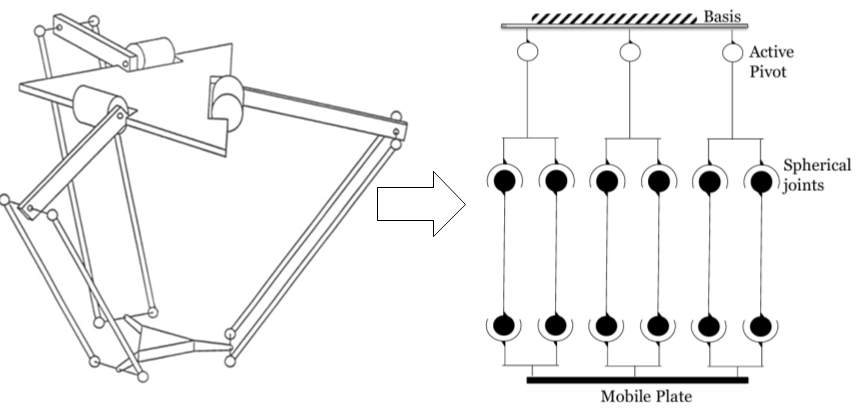
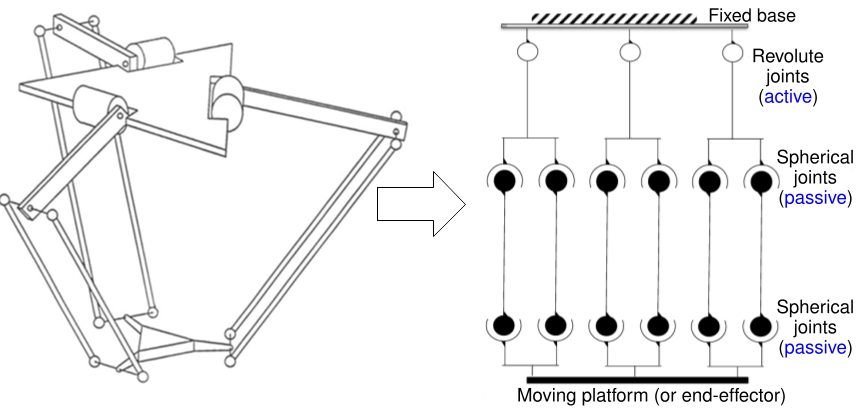
Revising kinematic course

diff --git a/docs/questions.js b/docs/questions.js
@@ -280,7 +280,7 @@ function checkDropdownAnswers(feedbackId) {
 function checkRobotStructure() {
   const correctMapping = {
     "serial-zone": ["open-chain", "serially-linked"],
-    "parallel-zone": ["closed-chain", "fixed-motors"]
+    "parallel-zone": ["closed-chain"]
   };
 
   let totalCorrect = 0;

diff --git a/docs/chap1_basic_motion_ctrl/kinematics.md b/docs/chap1_basic_motion_ctrl/kinematics.md
@@ -72,32 +72,35 @@ Have you ever watched a precision robot—like the <a href="https://en.wikipedia
 
 Kinematics, often referred to as the “**geometry of movement**,” is the study of *how bodies move in space without considering the forces or torques causing the motion*. By focusing on the geometry and arrangement of joints, links, and end-effectors, kinematics allows us to:
 
-- ***Predict and Control Robot Positions***: For instance, a robotic arm used in an assembly line must position its **end-effector** (tip of the arm) at **exact points in space**. Kinematics equations compute a correspondence between a **robot joint configuration** (particular choice of value for each joint angle) and a specific position and orientation of the end-effector. This is necessary to translate a desired carthesian location for the robot is tip into a set of robot is joint values.
+- ***Predict and Control Robot Positions***: For instance, a robotic arm used in an assembly line must position its **end-effector** (tip of the arm) at **exact points in space**. Kinematics provides the  correspondence between a **robot joint configuration** (particular choice of value for each joint angle) and a specific position and orientation of the end-effector. This is necessary to translate a desired position and orientation of the robot end-effector in Cartesian space (think of translation along and rotation about x, y, z axes) to a set of robot joint values (think of set of values in radians).
 
-- ***Backbone to Path Planning***: From pick-and-place tasks to drawing complex shapes, kinematics helps in **calculating paths**, ensuring the robot can move smoothly from one point to another without collisions or awkward joint motions. Kinematics is the back bone to all standard and advanced path planning techniques. Whether it’s a Delta robot on a factory floor or a humanoid robot in a research lab, it is necessary to design the robot is kinematic structure to ensure that the path will be **kinematically feasible**, namely that it will satisfy the robot is mechanical constraints.
+- ***Backbone to Path Planning***: From pick-and-place tasks to drawing complex shapes, kinematics helps in **calculating paths**, ensuring the robot can move smoothly from one point to another without collisions or awkward joint motions. Kinematics is the back bone to all standard and advanced path planning techniques. Whether it’s a Delta robot on a factory floor or a humanoid robot in a research lab, it is necessary to design the robot and its kinematic structure to ensure that the path will be **kinematically feasible**, namely that it will satisfy the robot's mechanical constraints.
 
 In this chapter, you will explore different ways of representing positions and orientations in 3D space, understand the kinematics behind common robotic arms, and learn a systematic way to map your robot’s geometry into kinematic equations to enable control. By mastering kinematics, you’ll have a strong foundation for starting your journey into controling robots. 
 
 ---
 
-## 1.1.3 Course Content
+## 1.1.3 General Concepts
 
 ⚠ **Note on Notation**: 
 >*Please be aware that notation, variable naming, and the style of writing equations may slightly differ between instructors. Always refer to the provided formulas and definitions in this course when working on assignments or exercises to avoid any confusion.*
 
-### 1.1.3.0 : General Concepts
 In this section we are first going to learn how to represent robots, what is a joint, degrees of freedom, etc. before diving into specific transformations (2D coordinate transformations, rotation matrices, homogeneous matrices) to link conceptual kinematic description of a robot to mathematical formalisms.
 
 ---
-#### *Robot Structure:*
+### *Robot Structure:*
 
-A traditional (rigid) robot is composed of a series of ***links***, attached to one another by ***joints***. The links move around the joints. 
+A rigid-body robot is composed of a series of ***rigid-links***, attached to one another by ***joints***. The joints allow a relative motion between links. 
 
-The simplest of these joint-based linkage consists of attaching in sequence two links. This is what we refer to as ***revolute*** joint, also called ***hinge*** joint. It is also referred to as the elbow joint as it bears some vague resemblance to the attachment of the upeer and lower human arms. 
+The simplest of these joint-based linkage is the ***revolute*** joint, also called ***hinge*** joint. This allows a link to rotate with respect to the previous link it is connected to.
 
 In place of enabling the links to rotate around the joint, the joint can also allow the links to slide along each other. One then refers to these links as ***prismatic*** joint, also called a sliding or linear joint. 
 
-More interesting are joints that enable either the links to do more than one motion type (combining translation and rotation) or enable to connect three or more links simultaneously. The ***helical*** or ***screw*** joint allows simultaneous rotation and translation about a screw axis. The ***spherical*** joint, also called a ball-and-socket joint, enables rotation along three axes. 
+Joints can also enable either links to do more than one motion type (combining translation and rotation) or enable to connect three or more links simultaneously. The ***helical*** or ***screw*** joint allows simultaneous rotation and translation about a screw axis. The ***spherical*** joint, also called a ball-and-socket joint, enables rotation along three axes. 
+
+<!-- The number of motions a body can perform independently is termed as its degrees of freedom (dof). In a 3-dimensional cartesian space, we have upto six degrees of freedom, three related to translations and three related to rotations. Every motion in the 3-dimensional Cartesian space can be written as a combination of these six motions. -->
+
+For our discussion in this chapter we will limit ourselves to simple joints with a single type of motion such as revolute joints or prismatic joints.
 
 <figure style="text-align: center;">
   <img src="{{ site.baseurl }}{{ '/assets/images/kinematics/joints.png' }}" width="500px" alt="Joints">
@@ -106,22 +109,22 @@ More interesting are joints that enable either the links to do more than one mot
   </figcaption>
 </figure>
 
-#### *Serial vs. Parallel robots*
+### *Serial vs. Parallel robots*
 
-Among the various configurations in which mechanical components can be arranged, two key topologies are particularly significant in robotics:
+Among the various configurations in which mechanical components can be arranged, two key architectures are particularly common in robotics:
 - ***Serial Chains***: These consist of a series of rigid links connected sequentially by joints. Each link (except the first and last) is connected to exactly two other links. Serial chains are commonly seen in robotic arms.
 - ***Fully Parallel Mechanisms***: These mechanisms have two primary components (often the base and the end-effector) connected by multiple independent chains. Each of these connecting chains itself typically forms a serial structure. An example is the Delta robot used in high-speed pick-and-place tasks.
 
-For a visual comparison of these two robot types, watch the following short video:
+For a visual comparison of these two robot types, refer to the following video:
 ![serial_parallel](https://www.youtube.com/watch?v=3fbmguBgVPA)
-><sub>*Video showing the differnece between Parallel (left) and Serial (right) robot. YouTube video, 13 juin 2019. Available at: https://www.youtube.com/watch?v=3fbmguBgVPA*</sub>
+><sub>*Video showing the difference between Parallel (left) and Serial (right) robots. YouTube video, 13 juin 2019. Available at: https://www.youtube.com/watch?v=3fbmguBgVPA*</sub>
 >
 
 <!-- Conceputal questions -->
 <details markdown="1">
   <summary>Conceptual Questions</summary>
 
-<p><strong>Question 1: Drag each characteristic to the correct robot category (2 per category):</strong></p>
+<p><strong>Question 1: Drag each characteristic to the correct robot category:</strong></p>
 
 <style>
   .drag-container {
@@ -138,7 +141,17 @@ For a visual comparison of these two robot types, watch the following short vide
     min-height: 150px;
     width: 45%;
     background-color: #f9f9f9;
+    text-align: center;          /* centers the h3 text */
+    display: flex;               /* centers content within the zone */
+    flex-direction: column;
+    align-items: center;         /* horizontal centering */
+    justify-content: center;
   }
+
+.drop-zone img{
+  display: block;
+  margin: 0 auto 10px;         /* keeps spacing below image */
+}
 
   .drag-item {
     background-color: #e3e3e3;
@@ -166,7 +179,7 @@ For a visual comparison of these two robot types, watch the following short vide
   <!-- Serial Robot Zone -->
   <div class="drop-zone" id="serial-zone" ondrop="drop(event)" ondragover="allowDrop(event)">
     <h3>Serial Robot</h3>
-    <img src="{{ site.baseurl }}/assets/images/kinematics/serial.jpg" alt="Serial Robot" width="100%" style="max-width:90px; margin-bottom:10px;">
+    <img src="{{ site.baseurl }}/assets/images/kinematics/serial.jpg" alt="Serial Robot" width="100%" style="max-width:90px; margin-bottom:10px">
   </div>
 
   <!-- Parallel Robot Zone -->
@@ -177,19 +190,18 @@ For a visual comparison of these two robot types, watch the following short vide
 
 </div>
 
-<!-- Draggable items -->
+<!-- First question -->
 <div class="drag-container" id="drag-items">
   <div class="drag-item" id="open-chain" draggable="true" ondragstart="drag(event)">Open kinematic chain</div>
   <div class="drag-item" id="serially-linked" draggable="true" ondragstart="drag(event)">Three serially linked segments</div>
   <div class="drag-item" id="closed-chain" draggable="true" ondragstart="drag(event)">Closed kinematic chain robots</div>
-  <div class="drag-item" id="fixed-motors" draggable="true" ondragstart="drag(event)">Two fixed bases</div>
 </div>
 
 <button class="check-button" onclick="checkRobotStructure()">Check Answer</button>
 <div class="feedback" id="robot-feedback"></div>
 
 
-<!-- First question  -->
+<!-- Second question  -->
 <p><strong>Question 2: A serial robot is a closed kinematic chain structure</strong></p>
 <form id="q1">
   <input type="radio" name="q1" value="True"> True<br>
@@ -203,8 +215,20 @@ For a visual comparison of these two robot types, watch the following short vide
   <p id="q1-feedback"></p>
 </form>
 
-<!-- Second question  -->
-<p><strong>Question 3: Parallel robots are designed to move parrallel to a plane.</strong></p>
+<!-- Third question  -->
+<p><strong>Question 3: In a parallel robot, the end-effector (moving platform) is connected to the base by multiple kinematic chains (legs) in parallel.</strong></p>
+<form id="q3">
+  <input type="radio" name="q3" value="True"> True<br>
+  <input type="radio" name="q3" value="False"> False<br>
+  <button type="button"
+    onclick="checkTrueFalse('q3', 'True', 
+      'Correct! Parallel robots use multiple legs connecting the base to a moving platform, often giving high stiffness and accuracy.',
+      'Incorrect. A parallel robot has several kinematic chains (legs) supporting the same moving platform, not a single serial chain.')">
+    Check Answer
+  </button>
+  <p id="q3-feedback"></p>
+</form>
+<!-- <p><strong>Question 3: Parallel robots are designed to move parrallel to a plane.</strong></p>
 <form id="q2">
   <input type="radio" name="q2" value="True"> True<br>
   <input type="radio" name="q2" value="False"> False<br>
@@ -215,7 +239,7 @@ For a visual comparison of these two robot types, watch the following short vide
     Check Answer
   </button>
   <p id="q2-feedback"></p>
-</form>
+</form> -->
 
 <!-- Third question  
 <p><strong>Question 4: A parallel robot is a structure characterized by a closed kinematic loop</strong></p>
@@ -236,7 +260,7 @@ For a visual comparison of these two robot types, watch the following short vide
 
 ---
 
-#### *Drawing kinematic diagrams*
+### *Drawing kinematic diagrams*
 In robotics, accurately representing the structure of robots (left image below) through **kinematic diagrams** (right image below) is crucial. These diagrams help us clearly visualize joints, links, and their connections.
 
 <figure style="text-align: center;">
@@ -260,7 +284,7 @@ Here is a video explaining the step-by-step procedure to draw the kinematic diag
     Your browser does not support the video tag.
   </video>
   <figcaption style="margin-top: 8px; font-style: italic;">
-    Video: Step-by-step procedure to draw the kinematic diagram (created by author).
+    Video: Step-by-step procedure to draw the kinematic diagram (created by Shujiro Shobayashi).
   </figcaption>
 </figure>
 
@@ -352,7 +376,7 @@ Give it a try !
 
 ---
 
-#### *Formalism*
+### *Formalism*
 
 The structure of the robot determines entirely its mobility. For instance, the extent by which one link can move it determined by the extent to which it can rotate or slide only the joints it is attached to. The length of the robot is links and the range of motion at each joint determines the volume of the space surrounding the robot that can be reached or travelled through by the robot. To analyse this volume of motion is crucial. For instance, when controling robots tasked to pick and place objects, it allows to determine the regions the robot can reach the object successfully. It also enables to determine the regions of the space free of robot, and hence safe for humans to move around. To control robots, it is hence crucial to be able to express mathematically the range of motion it can do. We refer to this as the robot is structural mobility. 
 
@@ -402,7 +426,7 @@ The number of direction of motion enabled at a joint is described by the number 
 
 ---
 
-#### *Grübler’s formula and its application*
+### *Grübler’s formula and its application*
 ***Grübler’s formula*** is a powerful tool to quickly calculate the DOFs of mechanisms, especially useful for complex robot configurations:
 $$
 \boxed{ \text{DoF} = m(N - 1 - J) + \sum_{i=1}^{J} \text{f}_i }
